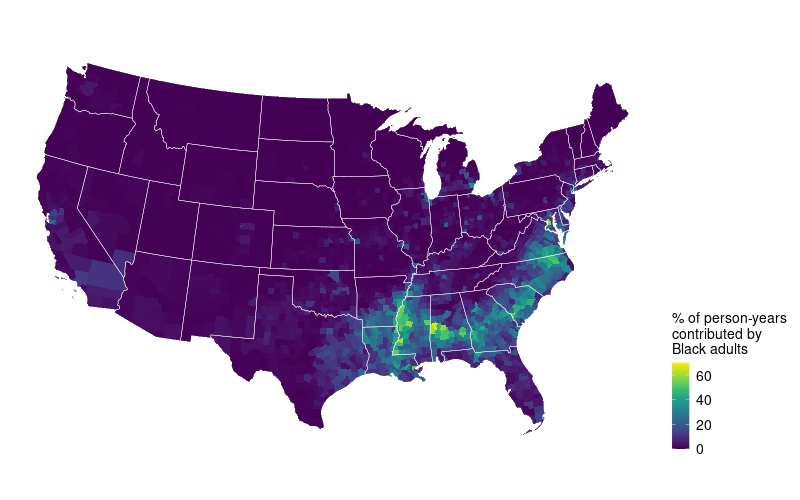
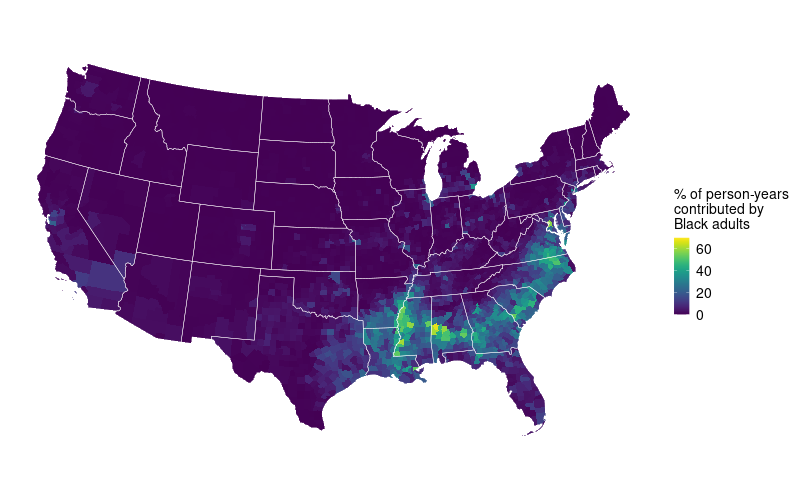
update figures and tables

diff --git a/results/tables/final/adrd_national_rates.tex b/results/tables/final/adrd_national_rates.tex
@@ -1,5 +1,5 @@
 % latex table generated in R 4.2.3 by xtable 1.8-4 package
-% Wed Jun 12 17:53:47 2024
+% Wed Jul  3 19:16:31 2024
 \begin{table}[ht]
 \centering
 \begin{tabular}{rlllll}
